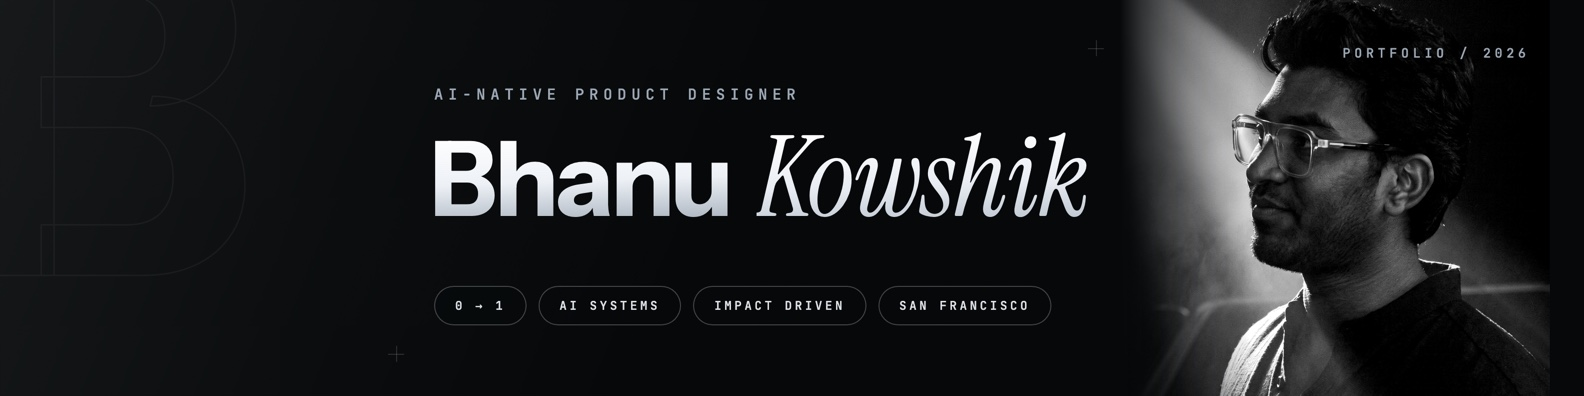
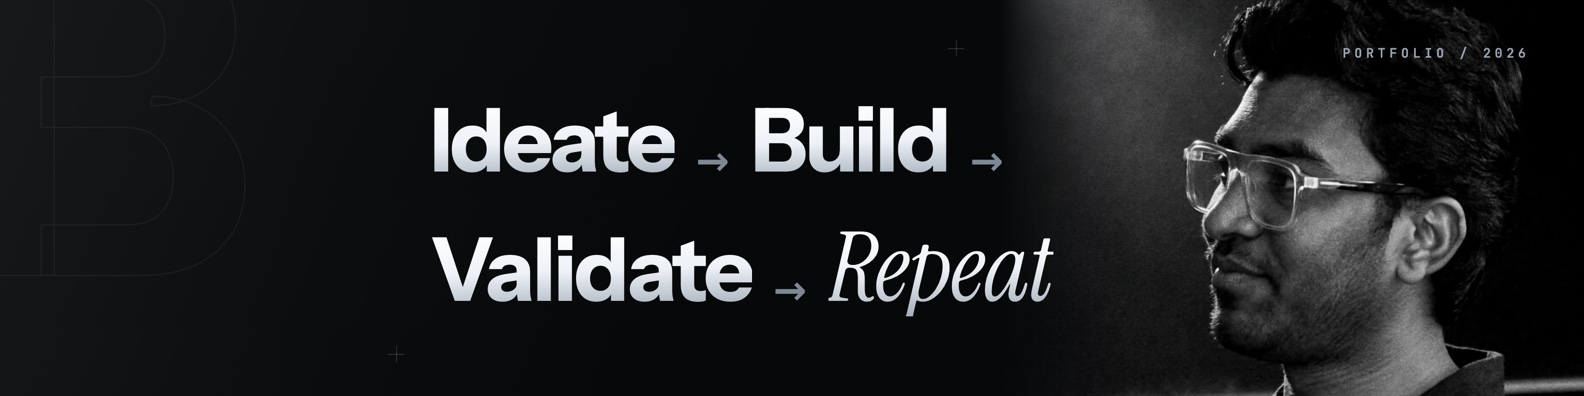
feat(brand): linkedin cover v2 — the loop speaks, the profile does the naming
Name and role leave the banner (LinkedIn already prints them): the loader
portrait takes the right under its lamp, and the title-sequence loop takes
the left — Ideate → Build → Validate in sheened sans, Repeat closing in
italic serif, mono arrows between.

diff --git a/linkedin-cover.html b/linkedin-cover.html
@@ -1,7 +1,7 @@
 <!DOCTYPE html>
-<!-- Source for images/linkedin-cover.jpg — the v20 og-card language at LinkedIn's
-     1584x396 banner size. The profile avatar overlaps the bottom-left on
-     desktop, so that zone stays atmospheric.
+<!-- Source for images/linkedin-cover.jpg — LinkedIn banner, 1584x396.
+     No name/role (the profile already says it): the loader portrait on the
+     right, the title-sequence loop on the left. Avatar overlaps bottom-left.
      Render:
      "/Applications/Google Chrome.app/Contents/MacOS/Google Chrome" --headless=new --disable-gpu \
        --screenshot=li-2x.png --window-size=1584,396 --force-device-scale-factor=2 \
@@ -23,16 +23,16 @@
       color: #EFF3F8;
     }
 
-    /* ── the portrait — far right, left edge dissolving ── */
+    /* ── the loader portrait — right side, left edge dissolving ── */
     .cine {
-      position: absolute; left: 1120px; top: 0; width: 464px; height: 396px;
+      position: absolute; left: 1000px; top: 0; width: 584px; height: 396px;
       overflow: hidden; z-index: 1;
-      -webkit-mask-image: linear-gradient(to right, transparent 0px, #000 130px);
-              mask-image: linear-gradient(to right, transparent 0px, #000 130px);
+      -webkit-mask-image: linear-gradient(to right, transparent 0px, #000 140px);
+              mask-image: linear-gradient(to right, transparent 0px, #000 140px);
     }
     .cine img {
-      position: absolute; width: 470px; left: -40px; top: -30px;
-      filter: grayscale(1) contrast(1.08) brightness(1.02);
+      position: absolute; width: 660px; left: -30px; top: -60px;
+      filter: contrast(1.05);
     }
 
     /* ── shapes ── */
@@ -51,36 +51,24 @@
       background: linear-gradient(112deg, rgba(240,246,255,.07) 0%, rgba(240,246,255,.025) 24%, transparent 46%);
     }
 
-    /* ── type ── */
-    .eyebrow {
-      position: absolute; left: 434px; top: 84px; z-index: 4;
-      font-family: 'JetBrains Mono', monospace; font-weight: 500;
-      font-size: 15px; letter-spacing: .34em; text-transform: uppercase;
-      color: #9AA6B4; white-space: nowrap;
-    }
-    .name { position: absolute; left: 430px; top: 122px; z-index: 4; white-space: nowrap; }
-    .n1 {
-      display: inline-block; vertical-align: baseline;
-      font-weight: 700; font-size: 104px; line-height: 1.0; letter-spacing: -0.03em;
+    /* ── the loop, poster-sized ── */
+    .loop { position: absolute; left: 430px; top: 96px; z-index: 4; white-space: nowrap; }
+    .loop .row { display: block; line-height: 1; }
+    .loop .row + .row { margin-top: 26px; }
+    .w {
+      display: inline-block;
+      font-weight: 700; font-size: 88px; letter-spacing: -0.03em;
       background: linear-gradient(178deg, #FFFFFF 8%, #EDF1F6 52%, #9AA5B2 100%);
       -webkit-background-clip: text; background-clip: text; color: transparent;
     }
-    .n2 {
-      display: inline-block; vertical-align: baseline; margin-left: 26px;
+    .w.serif {
       font-family: 'Instrument Serif', Georgia, serif; font-style: italic; font-weight: 400;
-      font-size: 112px; line-height: 1.0; letter-spacing: -0.005em;
-      background: linear-gradient(178deg, #FFFFFF 10%, #E9EDF3 55%, #AEB8C4 100%);
-      -webkit-background-clip: text; background-clip: text; color: transparent;
+      font-size: 96px; letter-spacing: -0.005em;
     }
-
-    .pills { position: absolute; left: 434px; top: 286px; display: flex; gap: 12px; z-index: 4; }
-    .pill {
-      display: inline-flex; align-items: center;
-      padding: 11px 20px; border: 1px solid rgba(239,243,248,.26); border-radius: 999px;
-      background: rgba(6,8,9,.4);
-      font-family: 'JetBrains Mono', monospace; font-weight: 500;
-      font-size: 12px; letter-spacing: .24em; text-transform: uppercase;
-      color: rgba(239,243,248,.92); white-space: nowrap;
+    .arrow {
+      display: inline-block; margin: 0 22px; transform: translateY(-10px);
+      font-family: 'JetBrains Mono', monospace; font-weight: 400;
+      font-size: 54px; color: #7C8794; vertical-align: middle;
     }
 
     .year {
@@ -98,19 +86,14 @@
 </head>
 <body>
   <div class="ghost">B</div>
-  <div class="cine"><img src="images/bhanu-cinematic.jpg" alt="" /></div>
+  <div class="cine"><img src="images/loader-portrait.webp" alt="" /></div>
   <div class="beam"></div>
   <div class="cross" style="left: 388px; bottom: 34px;"></div>
-  <div class="cross" style="right: 480px; top: 40px;"></div>
+  <div class="cross" style="right: 620px; top: 40px;"></div>
 
-  <div class="eyebrow">AI-Native Product Designer</div>
-  <div class="name"><span class="n1">Bhanu</span><span class="n2">Kowshik</span></div>
-
-  <div class="pills">
-    <span class="pill">0 → 1</span>
-    <span class="pill">AI Systems</span>
-    <span class="pill">Impact Driven</span>
-    <span class="pill">San Francisco</span>
+  <div class="loop">
+    <span class="row"><span class="w">Ideate</span><span class="arrow">→</span><span class="w">Build</span><span class="arrow">→</span></span>
+    <span class="row"><span class="w">Validate</span><span class="arrow">→</span><span class="w serif">Repeat</span></span>
   </div>
 
   <div class="year">Portfolio / 2026</div>
